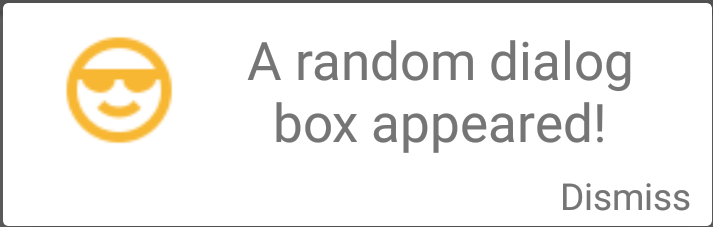
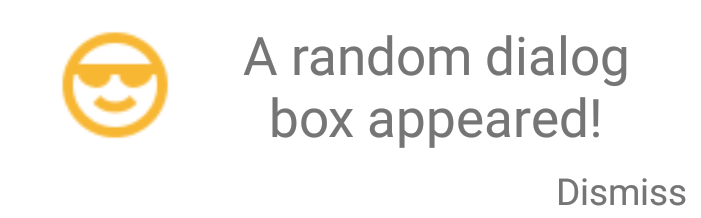
Update Cards, removed(commented), What's new & change image for dialog box project

diff --git a/projects.html b/projects.html
@@ -10,7 +10,7 @@
   </head>
 
   <body>
-    <div class="title">
+    <!-- <div class="title">
       What am I working on right now?
     </div>
     <div class="new-card">
@@ -41,7 +41,7 @@
           </p>
 
         </div>
-      </div>
+      </div> -->
     </div>
     <div class="title">
       Some finished projects
@@ -49,7 +49,7 @@
     <div class="projects">
       <div class="card">
         <div class = "card-header">
-          <img src="img/dialog_box.png" />
+          <img src="img/dialog_box.png"/>
           <div class="card-header-title">
             Custom Dialogs
           </div>
@@ -68,19 +68,21 @@
       </div>
 
       <div class="card">
-        <div class = "card-header">
-          <img src="img/corelogo.png" />
-          <div class="card-header-title">
-            C.O.Я.E.
+        <div class="card-info">
+          <div class = "card-header">
+            <img src="img/corelogo.png" />
+            <div class="card-header-title">
+              C.O.Я.E.
+            </div>
           </div>
-        </div>
-        <div class="card-desp">
-          Android application to run along a city wide interschool computer fest conducted by Delhi Public School, Dwarka.
-          <br />
-          <br />[*] Event informations.
-          <br />[*] Schedule.
-          <br />[*] Contact and team information.
-          <br />[*] Declare certain events open.
+          <div class="card-desp">
+            Android application to run along a city wide interschool computer fest conducted by Delhi Public School, Dwarka.
+            <br />
+            <br />[*] Event informations.
+            <br />[*] Schedule.
+            <br />[*] Contact and team information.
+            <br />[*] Declare certain events open.
+          </div>
         </div>
         <div class="programming-langauges">
           Android | Java
@@ -115,7 +117,7 @@
     <div class="projects">
       <div class="card feature-card">
         <div class = "card-header">
-          <img src="img/calendar.jpg" />
+          <img src="img/calendar.jpg" style="height: 120px"/>
           <div class="card-header-title">
             Xperia Z2 Calendar
           </div>
@@ -127,9 +129,9 @@
         </div>
       </div>
 
-      <div class="card feature-card">
+      <div class="feature-card card">
         <div class = "card-header">
-          <img src="img/Android-M.jpg" />
+          <img src="img/Android-M.jpg" style="height: 120px"/>
           <div class="card-header-title">
             Preview Android M
           </div>
@@ -143,7 +145,7 @@
 
       <div class="card feature-card">
         <div class = "card-header">
-          <img src="img/APK.png" />
+          <img src="img/APK.png" style="height: 120px"/>
           <div class="card-header-title">
             Learn about an APK
           </div>

diff --git a/css/projects.css b/css/projects.css
@@ -55,27 +55,40 @@ body{
 .programming-langauges{
   font-size: 14px;
   font-weight: bold;
-  color: #FC4A1A;
   padding: 5px;
-  text-align: right;
+  text-align: center;
+  background-color: #DFDCE3;
 }
 
 .card{
   box-sizing: border-box;
   display: flex;
   flex-flow: column;
-  width: 300px;
-  height: 400px;
-  padding: 10px;
+  width: 350px;
+  height: 200px;
   margin: 15px;
+  box-shadow: 0 4px 8px 0 rgba(0,0,0,0.2);
+  border-radius: 5px;
+  transition: 0.3s;
+  overflow: hidden;
+}
+
+.card:hover{
+  height: 400px;
+  box-shadow: 0 8px 16px 0 rgba(0,0,0,0.2);
+  border-radius: 5px 5px 0 0;
 }
 
 .feature-card{
-  height: 350px;
+  height: 150px;
+}
+
+.feature-card:hover{
+  height: 270px;
 }
 
 .card-header img{
-  height: 140px;
+  height: 170px;
   width: 100%;
   display: flex;
   justify-content: center;
@@ -87,12 +100,12 @@ body{
   padding: 5px 3px;
   font-weight: bold;
   font-family: Avenir;
+  text-align: center;
   font-size: 20px;
 }
 
 .card-desp{
   padding: 5px 3px;
-  background-color: #EEE;
   box-sizing: border-box;
   height: 100%;
   width: 100%;
